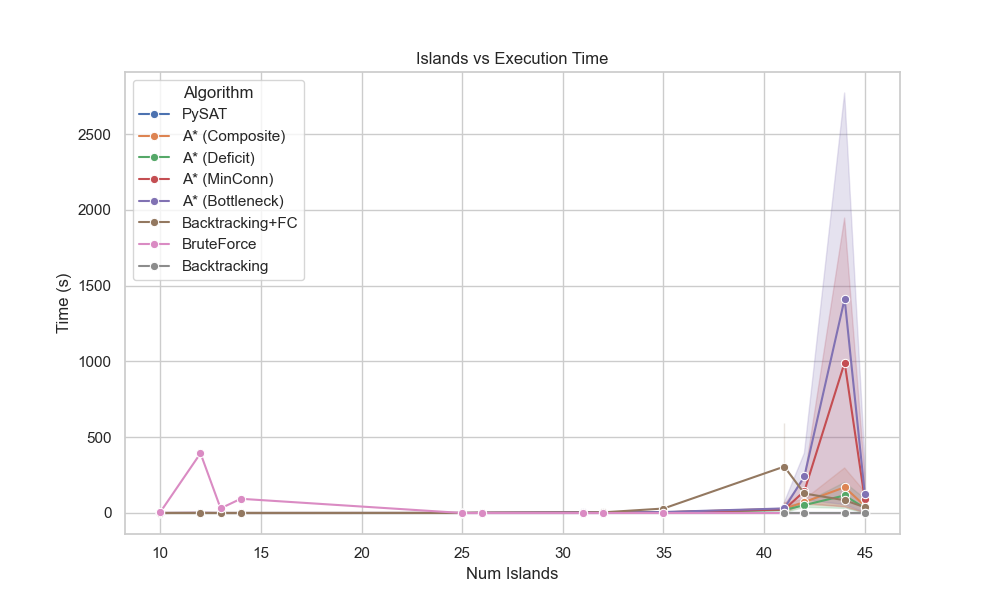
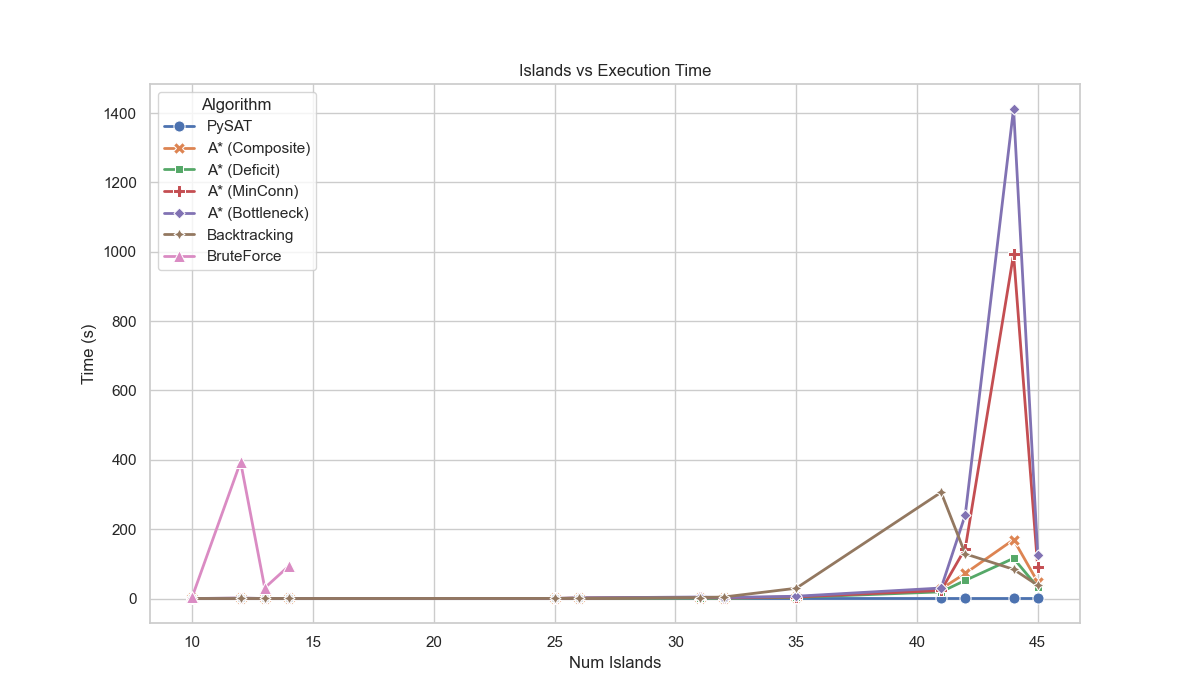
gh: update plot

diff --git a/Source/visualize_plots.py b/Source/visualize_plots.py
@@ -25,6 +25,16 @@ def load_and_prep_data(csv_path):
     # Sort the DataFrame by Grid Dimension to ensure plots are ordered correctly
     df = df.sort_values('Grid Dimension')
     
+    # Replace 0 values with NaN for metrics where Status is SKIPPED or value is 0
+    # This prevents lines from dropping to zero in plots, which is misleading
+    metrics = ['Time (s)', 'Memory (MB)', 'Nodes/Steps']
+    for col in metrics:
+        if col in df.columns:
+            # Set to NaN if Status is SKIPPED
+            df.loc[df['Status'] == 'SKIPPED', col] = np.nan
+            # Also set to NaN if value is 0 (to avoid log(0) issues and misleading drops)
+            df.loc[df[col] == 0, col] = np.nan
+
     return df
 
 def generate_visualizations(df, output_dir):
@@ -35,11 +45,22 @@ def generate_visualizations(df, output_dir):
     # Ensure output directory exists
     output_dir.mkdir(parents=True, exist_ok=True)
 
+    # Common plotting arguments for consistency
+    plot_kwargs = {
+        'hue': 'Algorithm',
+        'style': 'Algorithm',  # Different markers
+        'markers': True,       # Different markers
+        'dashes': False,       # Force solid lines
+        'errorbar': None,     # Remove shaded confidence interval for clarity
+        'linewidth': 2,        # Thicker lines
+        'markersize': 8        # Larger markers
+    }
+
     # ---------------------------------------------------------
     # 1. Islands vs Time
     # ---------------------------------------------------------
-    plt.figure(figsize=(10, 6))
-    sns.lineplot(data=df, x='Num Islands', y='Time (s)', hue='Algorithm', marker='o')
+    plt.figure(figsize=(12, 7))
+    sns.lineplot(data=df, x='Num Islands', y='Time (s)', **plot_kwargs)
     plt.title('Islands vs Execution Time')
     plt.savefig(output_dir / '1_islands_vs_time.png')
     plt.close()
@@ -47,8 +68,8 @@ def generate_visualizations(df, output_dir):
     # ---------------------------------------------------------
     # 2. Islands vs Time (Log Scale)
     # ---------------------------------------------------------
-    plt.figure(figsize=(10, 6))
-    sns.lineplot(data=df, x='Num Islands', y='Time (s)', hue='Algorithm', marker='o')
+    plt.figure(figsize=(12, 7))
+    sns.lineplot(data=df, x='Num Islands', y='Time (s)', **plot_kwargs)
     plt.yscale('log')
     plt.title('Islands vs Execution Time (Log Scale)')
     plt.savefig(output_dir / '2_islands_vs_time_log.png')
@@ -57,8 +78,8 @@ def generate_visualizations(df, output_dir):
     # ---------------------------------------------------------
     # 3. Islands vs Node Expanded
     # ---------------------------------------------------------
-    plt.figure(figsize=(10, 6))
-    sns.lineplot(data=df, x='Num Islands', y='Nodes/Steps', hue='Algorithm', marker='o')
+    plt.figure(figsize=(12, 7))
+    sns.lineplot(data=df, x='Num Islands', y='Nodes/Steps', **plot_kwargs)
     plt.title('Islands vs Nodes Expanded')
     plt.savefig(output_dir / '3_islands_vs_nodes.png')
     plt.close()
@@ -66,17 +87,27 @@ def generate_visualizations(df, output_dir):
     # ---------------------------------------------------------
     # 4. Islands vs Memory
     # ---------------------------------------------------------
-    plt.figure(figsize=(10, 6))
-    sns.lineplot(data=df, x='Num Islands', y='Memory (MB)', hue='Algorithm', marker='o')
+    plt.figure(figsize=(12, 7))
+    sns.lineplot(data=df, x='Num Islands', y='Memory (MB)', **plot_kwargs)
     plt.title('Islands vs Memory Usage')
     plt.savefig(output_dir / '4_islands_vs_memory.png')
     plt.close()
 
     # ---------------------------------------------------------
+    # 4b. Islands vs Memory (Log Scale)
+    # ---------------------------------------------------------
+    plt.figure(figsize=(12, 7))
+    sns.lineplot(data=df, x='Num Islands', y='Memory (MB)', **plot_kwargs)
+    plt.yscale('log')
+    plt.title('Islands vs Memory Usage (Log Scale)')
+    plt.savefig(output_dir / '4b_islands_vs_memory_log.png')
+    plt.close()
+
+    # ---------------------------------------------------------
     # 5. Grid Size vs Execution Time
     # ---------------------------------------------------------
-    plt.figure(figsize=(10, 6))
-    sns.lineplot(data=df, x='Grid Dimension', y='Time (s)', hue='Algorithm', marker='o')
+    plt.figure(figsize=(12, 7))
+    sns.lineplot(data=df, x='Grid Dimension', y='Time (s)', **plot_kwargs)
     plt.title('Grid Size vs Execution Time')
     plt.xlabel('Grid Dimension (N for NxN)')
     plt.savefig(output_dir / '5_grid_size_vs_time.png')
@@ -85,8 +116,8 @@ def generate_visualizations(df, output_dir):
     # ---------------------------------------------------------
     # 6. Grid Size vs Execution Time (Log Scale)
     # ---------------------------------------------------------
-    plt.figure(figsize=(10, 6))
-    sns.lineplot(data=df, x='Grid Dimension', y='Time (s)', hue='Algorithm', marker='o')
+    plt.figure(figsize=(12, 7))
+    sns.lineplot(data=df, x='Grid Dimension', y='Time (s)', **plot_kwargs)
     plt.yscale('log')
     plt.title('Grid Size vs Execution Time (Log Scale)')
     plt.xlabel('Grid Dimension (N for NxN)')
@@ -96,8 +127,8 @@ def generate_visualizations(df, output_dir):
     # ---------------------------------------------------------
     # 7. Grid Size vs Node Expanded
     # ---------------------------------------------------------
-    plt.figure(figsize=(10, 6))
-    sns.lineplot(data=df, x='Grid Dimension', y='Nodes/Steps', hue='Algorithm', marker='o')
+    plt.figure(figsize=(12, 7))
+    sns.lineplot(data=df, x='Grid Dimension', y='Nodes/Steps', **plot_kwargs)
     plt.title('Grid Size vs Nodes Expanded')
     plt.xlabel('Grid Dimension (N for NxN)')
     plt.savefig(output_dir / '7_grid_size_vs_nodes.png')
@@ -106,27 +137,54 @@ def generate_visualizations(df, output_dir):
     # ---------------------------------------------------------
     # 8. Grid Size vs Memory
     # ---------------------------------------------------------
-    plt.figure(figsize=(10, 6))
-    sns.lineplot(data=df, x='Grid Dimension', y='Memory (MB)', hue='Algorithm', marker='o')
+    plt.figure(figsize=(12, 7))
+    sns.lineplot(data=df, x='Grid Dimension', y='Memory (MB)', **plot_kwargs)
     plt.title('Grid Size vs Memory Usage')
     plt.xlabel('Grid Dimension (N for NxN)')
     plt.savefig(output_dir / '8_grid_size_vs_memory.png')
     plt.close()
 
     # ---------------------------------------------------------
+    # 8b. Grid Size vs Memory (Log Scale)
+    # ---------------------------------------------------------
+    plt.figure(figsize=(12, 7))
+    sns.lineplot(data=df, x='Grid Dimension', y='Memory (MB)', **plot_kwargs)
+    plt.yscale('log')
+    plt.title('Grid Size vs Memory Usage (Log Scale)')
+    plt.xlabel('Grid Dimension (N for NxN)')
+    plt.savefig(output_dir / '8b_grid_size_vs_memory_log.png')
+    plt.close()
+
+    # ---------------------------------------------------------
     # 9. Performance Heatmap: Execution Time
     # ---------------------------------------------------------
     plt.figure(figsize=(12, 6))
+    
+    # Filter out SKIPPED runs so they become NaN in pivot_table
+    df_heatmap = df[df['Status'] != 'SKIPPED']
+    
     # Pivot data: Rows=Algorithm, Cols=Grid Size, Values=Time
-    heatmap_data = df.pivot_table(index='Algorithm', columns='Grid Size', values='Time (s)', aggfunc='mean')
+    heatmap_data = df_heatmap.pivot_table(index='Algorithm', columns='Grid Size', values='Time (s)', aggfunc='mean')
     
     # Sort columns by grid size
     sorted_cols = df['Grid Size'].unique()
-    # Filter columns that exist in heatmap_data
-    sorted_cols = [c for c in sorted_cols if c in heatmap_data.columns]
+    # Reindex to ensure all grid sizes are present
     heatmap_data = heatmap_data.reindex(columns=sorted_cols)
 
-    sns.heatmap(heatmap_data, annot=True, fmt=".4f", cmap="YlOrRd", linewidths=.5, cbar_kws={'label': 'Time (s)'})
+    # Fill NaNs with -1 for coloring purposes (so they are not masked)
+    heatmap_plot_data = heatmap_data.fillna(-1)
+    
+    # Create annotation matrix
+    annot_data = heatmap_plot_data.apply(lambda col: col.map(lambda x: "Skip" if x == -1 else f"{x:.4f}"))
+
+    # Custom colormap: Use 'lightgray' for values below vmin (i.e., -1)
+    cmap = sns.color_palette("YlOrRd", as_cmap=True).copy()
+    cmap.set_under('lightgray')
+
+    # Plot with vmin=0 so -1 falls into 'under' color
+    sns.heatmap(heatmap_plot_data, annot=annot_data, fmt="", cmap=cmap, 
+                linewidths=.5, cbar_kws={'label': 'Time (s)'}, vmin=0)
+    
     plt.title('Performance Heatmap: Execution Time')
     plt.tight_layout()
     plt.savefig(output_dir / '9_performance_heatmap.png')
@@ -139,18 +197,26 @@ def generate_visualizations(df, output_dir):
     astar_df = df[df['Algorithm'].str.startswith('A*')]
     
     if not astar_df.empty:
+        # Time Comparison
         plt.figure(figsize=(12, 6))
-        sns.barplot(data=astar_df, x='Algorithm', y='Time (s)', estimator=np.mean, errorbar=None)
+        ax = sns.barplot(data=astar_df, x='Algorithm', y='Time (s)', hue='Algorithm', estimator=np.mean, errorbar=None, palette='viridis', legend=False)
         plt.title('Average Execution Time by Heuristic (A* Variants)')
-        plt.xticks(rotation=45)
+        plt.xticks(rotation=0)
+        # Add value labels on top of bars
+        for container in ax.containers:
+            ax.bar_label(container, fmt='%.4f', padding=3)
         plt.tight_layout()
         plt.savefig(output_dir / '10_heuristic_comparison_time.png')
         plt.close()
 
+        # Nodes Comparison
         plt.figure(figsize=(12, 6))
-        sns.barplot(data=astar_df, x='Algorithm', y='Nodes/Steps', estimator=np.mean, errorbar=None)
+        ax = sns.barplot(data=astar_df, x='Algorithm', y='Nodes/Steps', hue='Algorithm', estimator=np.mean, errorbar=None, palette='viridis', legend=False)
         plt.title('Average Nodes Expanded by Heuristic (A* Variants)')
-        plt.xticks(rotation=45)
+        plt.xticks(rotation=0)
+        # Add value labels on top of bars
+        for container in ax.containers:
+            ax.bar_label(container, fmt='%.0f', padding=3)
         plt.tight_layout()
         plt.savefig(output_dir / '10_heuristic_comparison_nodes.png')
         plt.close()

diff --git a/Source/hashiwokakero/benchmark.py b/Source/hashiwokakero/benchmark.py
@@ -161,7 +161,7 @@ class BenchmarkRunner:
             tracemalloc.stop()
 
             return BenchmarkResult(
-                algorithm="Backtracking+FC",
+                algorithm="Backtracking",
                 status=result.status,
                 time_seconds=result.elapsed,
                 memory_peak_mb=peak / (1024 * 1024),
@@ -170,7 +170,7 @@ class BenchmarkRunner:
             )
         except Exception as e:
             tracemalloc.stop()
-            return BenchmarkResult("Backtracking+FC", "ERROR", 0.0, 0.0, {"error": str(e)}, None)
+            return BenchmarkResult("Backtracking", "ERROR", 0.0, 0.0, {"error": str(e)}, None)
 
     def run_bruteforce(self) -> BenchmarkResult:
         if self.grid.height > 7:
